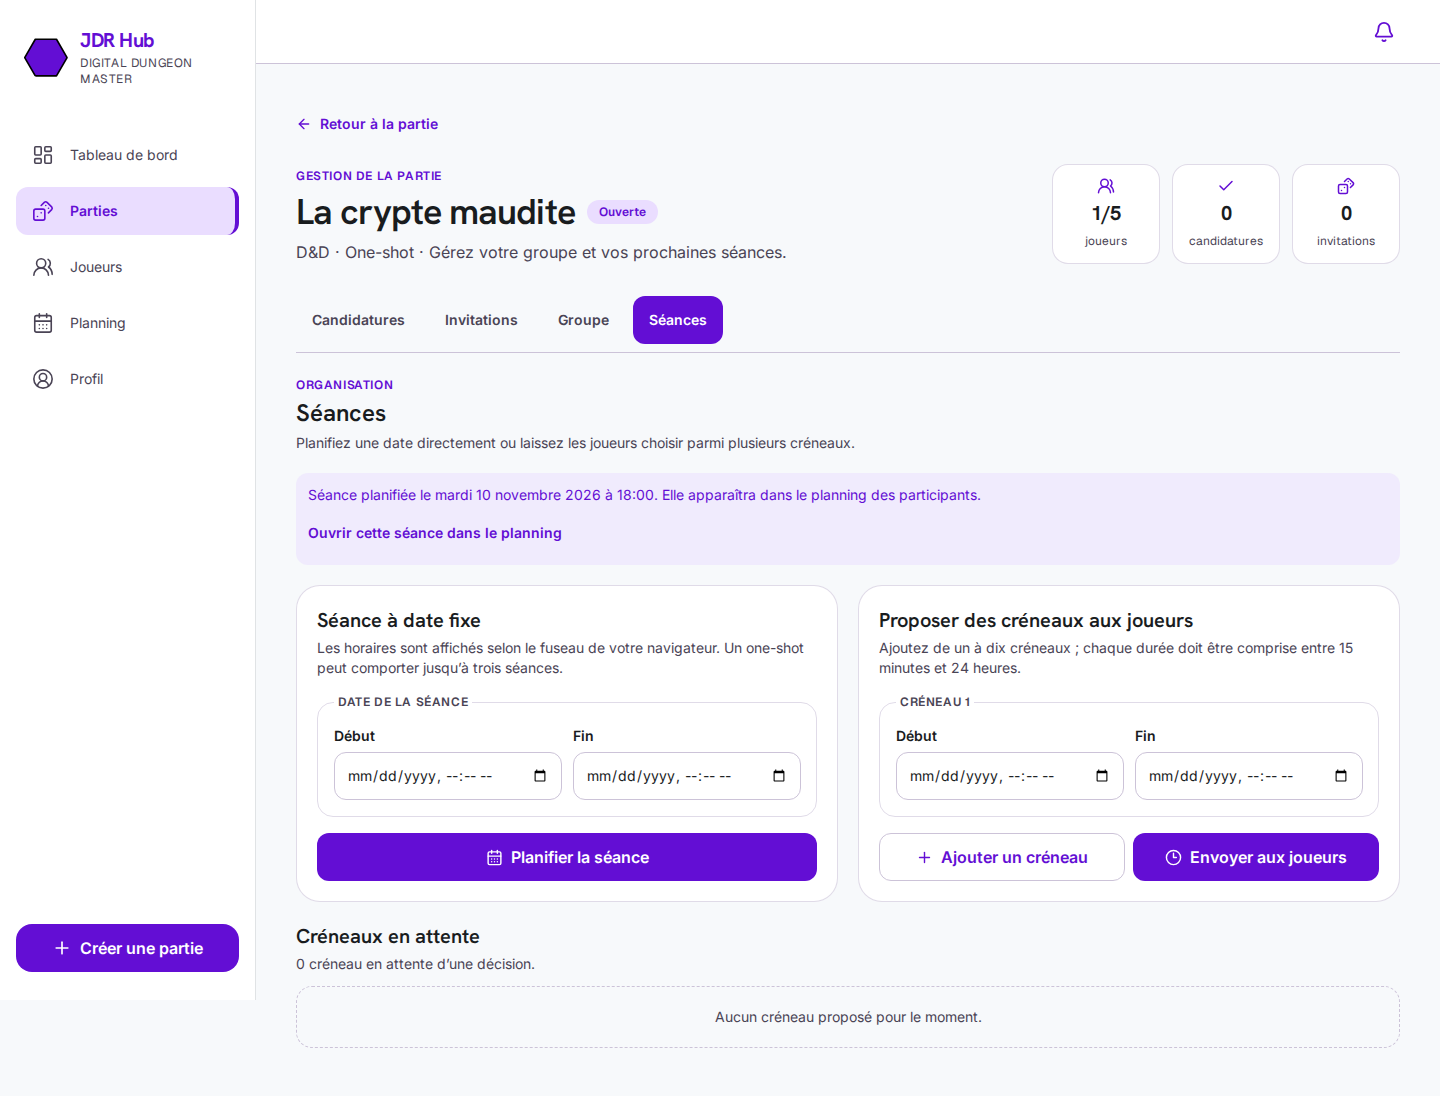
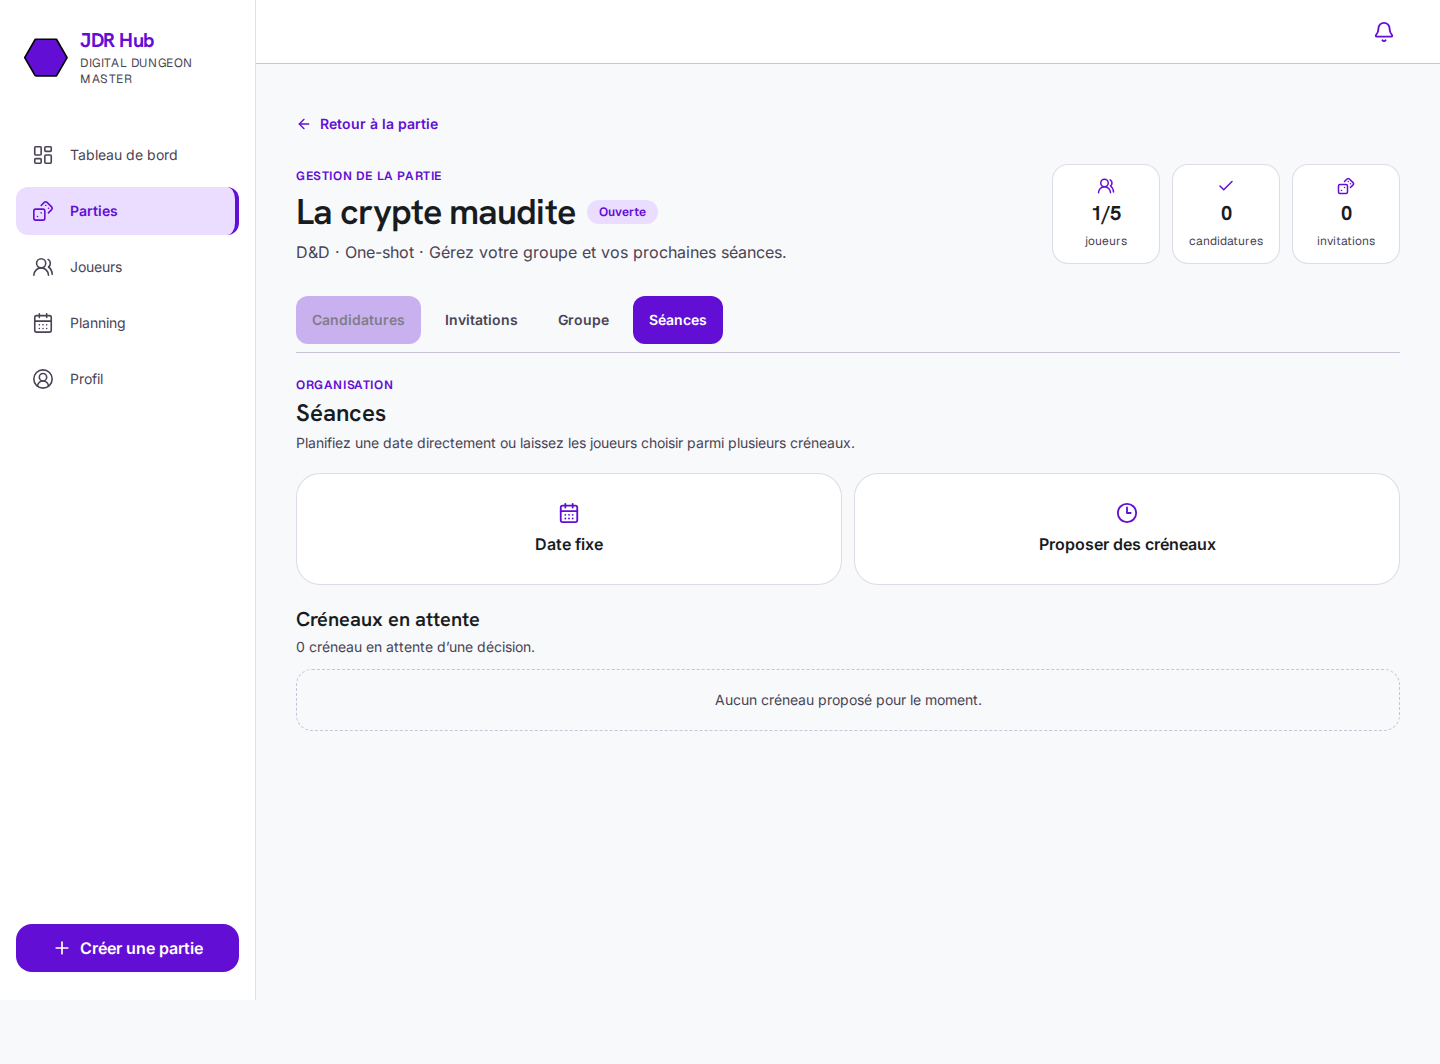
fix: hide unselected session scheduling mode

diff --git a/apps/web/features/gm-management/session-scheduling-panel.tsx b/apps/web/features/gm-management/session-scheduling-panel.tsx
@@ -7,6 +7,7 @@ import type { DashboardSession, GameType, ProposalInput, SchedulingProposal } fr
 import { createSchedulingApi } from '../../lib/scheduling-api'
 
 type SlotDraft = { startsAt: string; endsAt: string }
+type SchedulingMode = 'fixed' | 'proposals'
 
 function formatDate(value: string): string {
   return new Intl.DateTimeFormat('fr-FR', { dateStyle: 'full', timeStyle: 'short' }).format(new Date(value))
@@ -22,6 +23,7 @@ function DateRangeFields({ slot, label, onChange }: { slot: SlotDraft; label: st
 
 export function SessionSchedulingPanel({ gameId, gameType, nextSession, openProposalCount }: { gameId: string; gameType: GameType; nextSession: DashboardSession | null; openProposalCount: number }) {
   const [api] = useState(() => createSchedulingApi())
+  const [schedulingMode, setSchedulingMode] = useState<SchedulingMode | null>(null)
   const [proposals, setProposals] = useState<SchedulingProposal[] | null>(null)
   const [fixedSlot, setFixedSlot] = useState<SlotDraft>({ startsAt: '', endsAt: '' })
   const [proposalSlots, setProposalSlots] = useState<SlotDraft[]>([{ startsAt: '', endsAt: '' }])
@@ -103,10 +105,14 @@ export function SessionSchedulingPanel({ gameId, gameType, nextSession, openProp
     <div><p className="m-0 font-label text-xs font-bold uppercase tracking-wider text-primary">Organisation</p><h2 className="m-0 mt-1 font-display text-2xl font-semibold" id="sessions-title">Séances</h2><p className="m-0 mt-1 text-sm text-on-surface-variant">Planifiez une date directement ou laissez les joueurs choisir parmi plusieurs créneaux.</p></div>
     {message ? <div aria-live="polite" className="grid gap-2 rounded-lg bg-primary-fixed/50 p-3 pr-16 text-sm text-primary max-md:pr-20" role="status"><p className="m-0">{message}</p>{createdSession ? <Link className="inline-flex min-h-10 items-center font-semibold text-primary underline-offset-4 hover:underline focus-visible:outline-2 focus-visible:outline-offset-2 focus-visible:outline-primary" href={`/planning#session-${encodeURIComponent(createdSession.id)}`}>Ouvrir cette séance dans le planning</Link> : null}</div> : null}
     {error ? <p aria-live="polite" className="m-0 rounded-lg border border-error/30 bg-error-container p-3 pr-16 text-sm text-on-error-container max-md:pr-20" role="alert">{error}</p> : null}
-    <div className="grid gap-5 lg:grid-cols-2">
-      <form className="grid content-start gap-4 rounded-2xl border border-outline-variant/60 bg-surface p-5" onSubmit={(event) => { void createFixedSession(event) }}><div><h3 className="m-0 font-display text-xl font-semibold">Séance à date fixe</h3><p className="m-0 mt-1 text-sm text-on-surface-variant">Les horaires sont affichés selon le fuseau de votre navigateur.{gameType === 'ONE_SHOT' ? ' Un one-shot peut comporter jusqu’à trois séances.' : ''}</p></div><DateRangeFields label="Date de la séance" onChange={setFixedSlot} slot={fixedSlot} /><button className="inline-flex min-h-12 items-center justify-center gap-2 rounded-lg bg-primary px-4 font-semibold text-on-primary transition-colors hover:bg-primary-container focus-visible:outline-2 focus-visible:outline-offset-2 focus-visible:outline-primary disabled:opacity-60" disabled={busy} type="submit"><CalendarDays aria-hidden="true" size={17} />Planifier la séance</button></form>
-      <form className="grid content-start gap-4 rounded-2xl border border-outline-variant/60 bg-surface p-5" onSubmit={(event) => { void createProposals(event) }}><div><h3 className="m-0 font-display text-xl font-semibold">Proposer des créneaux aux joueurs</h3><p className="m-0 mt-1 text-sm text-on-surface-variant">Ajoutez de un à dix créneaux ; chaque durée doit être comprise entre 15 minutes et 24 heures.</p></div><div className="grid gap-3">{proposalSlots.map((slot, index) => <div className="relative" key={index}><DateRangeFields label={`Créneau ${index + 1}`} onChange={(value) => setProposalSlots((current) => current.map((item, itemIndex) => itemIndex === index ? value : item))} slot={slot} />{proposalSlots.length > 1 ? <button aria-label={`Supprimer le créneau ${index + 1}`} className="absolute right-2 top-1 min-h-10 rounded-lg px-2 text-error hover:bg-error/10 focus-visible:outline-2 focus-visible:outline-offset-2 focus-visible:outline-primary" disabled={busy} onClick={() => setProposalSlots((current) => current.filter((_, itemIndex) => itemIndex !== index))} type="button"><Trash2 aria-hidden="true" size={17} /></button> : null}</div>)}</div><div className="grid gap-2 sm:grid-cols-2"><button className="inline-flex min-h-12 items-center justify-center gap-2 rounded-lg border border-outline-variant px-3 font-semibold text-primary transition-colors hover:bg-primary-fixed/50 focus-visible:outline-2 focus-visible:outline-offset-2 focus-visible:outline-primary disabled:opacity-60" disabled={busy || proposalSlots.length >= 10} onClick={() => setProposalSlots((current) => [...current, { startsAt: '', endsAt: '' }])} type="button"><Plus aria-hidden="true" size={17} />Ajouter un créneau</button><button className="inline-flex min-h-12 items-center justify-center gap-2 rounded-lg bg-primary px-3 font-semibold text-on-primary transition-colors hover:bg-primary-container focus-visible:outline-2 focus-visible:outline-offset-2 focus-visible:outline-primary disabled:opacity-60" disabled={busy} type="submit"><Clock3 aria-hidden="true" size={17} />Envoyer aux joueurs</button></div></form>
-    </div>
+    {schedulingMode === null ? <div aria-labelledby="scheduling-mode-title" className="grid gap-3 sm:grid-cols-2">
+      <h3 className="sr-only" id="scheduling-mode-title">Choisir le mode de planification</h3>
+      <button className="grid min-h-28 content-center justify-items-center gap-2 rounded-2xl border border-outline-variant/60 bg-surface p-5 text-center font-semibold transition-colors hover:border-primary hover:bg-primary-fixed/30 focus-visible:outline-2 focus-visible:outline-offset-2 focus-visible:outline-primary" onClick={() => setSchedulingMode('fixed')} type="button"><CalendarDays aria-hidden="true" className="text-primary" size={22} />Date fixe</button>
+      <button className="grid min-h-28 content-center justify-items-center gap-2 rounded-2xl border border-outline-variant/60 bg-surface p-5 text-center font-semibold transition-colors hover:border-primary hover:bg-primary-fixed/30 focus-visible:outline-2 focus-visible:outline-offset-2 focus-visible:outline-primary" onClick={() => setSchedulingMode('proposals')} type="button"><Clock3 aria-hidden="true" className="text-primary" size={22} />Proposer des créneaux</button>
+    </div> : <div className="grid justify-items-start gap-3">
+      <button className="min-h-11 rounded-lg px-3 font-semibold text-primary underline-offset-4 hover:underline focus-visible:outline-2 focus-visible:outline-offset-2 focus-visible:outline-primary" onClick={() => setSchedulingMode(null)} type="button">Changer de mode</button>
+      {schedulingMode === 'fixed' ? <form className="grid w-full content-start gap-4 rounded-2xl border border-outline-variant/60 bg-surface p-5" onSubmit={(event) => { void createFixedSession(event) }}><div><h3 className="m-0 font-display text-xl font-semibold">Séance à date fixe</h3><p className="m-0 mt-1 text-sm text-on-surface-variant">Les horaires sont affichés selon le fuseau de votre navigateur.{gameType === 'ONE_SHOT' ? ' Un one-shot peut comporter jusqu’à trois séances.' : ''}</p></div><DateRangeFields label="Date de la séance" onChange={setFixedSlot} slot={fixedSlot} /><button className="inline-flex min-h-12 items-center justify-center gap-2 rounded-lg bg-primary px-4 font-semibold text-on-primary transition-colors hover:bg-primary-container focus-visible:outline-2 focus-visible:outline-offset-2 focus-visible:outline-primary disabled:opacity-60" disabled={busy} type="submit"><CalendarDays aria-hidden="true" size={17} />Planifier la séance</button></form> : <form className="grid w-full content-start gap-4 rounded-2xl border border-outline-variant/60 bg-surface p-5" onSubmit={(event) => { void createProposals(event) }}><div><h3 className="m-0 font-display text-xl font-semibold">Proposer des créneaux aux joueurs</h3><p className="m-0 mt-1 text-sm text-on-surface-variant">Ajoutez de un à dix créneaux ; chaque durée doit être comprise entre 15 minutes et 24 heures.</p></div><div className="grid gap-3">{proposalSlots.map((slot, index) => <div className="relative" key={index}><DateRangeFields label={`Créneau ${index + 1}`} onChange={(value) => setProposalSlots((current) => current.map((item, itemIndex) => itemIndex === index ? value : item))} slot={slot} />{proposalSlots.length > 1 ? <button aria-label={`Supprimer le créneau ${index + 1}`} className="absolute right-2 top-1 min-h-10 rounded-lg px-2 text-error hover:bg-error/10 focus-visible:outline-2 focus-visible:outline-offset-2 focus-visible:outline-primary" disabled={busy} onClick={() => setProposalSlots((current) => current.filter((_, itemIndex) => itemIndex !== index))} type="button"><Trash2 aria-hidden="true" size={17} /></button> : null}</div>)}</div><div className="grid gap-2 sm:grid-cols-2"><button className="inline-flex min-h-12 items-center justify-center gap-2 rounded-lg border border-outline-variant px-3 font-semibold text-primary transition-colors hover:bg-primary-fixed/50 focus-visible:outline-2 focus-visible:outline-offset-2 focus-visible:outline-primary disabled:opacity-60" disabled={busy || proposalSlots.length >= 10} onClick={() => setProposalSlots((current) => [...current, { startsAt: '', endsAt: '' }])} type="button"><Plus aria-hidden="true" size={17} />Ajouter un créneau</button><button className="inline-flex min-h-12 items-center justify-center gap-2 rounded-lg bg-primary px-3 font-semibold text-on-primary transition-colors hover:bg-primary-container focus-visible:outline-2 focus-visible:outline-offset-2 focus-visible:outline-primary disabled:opacity-60" disabled={busy} type="submit"><Clock3 aria-hidden="true" size={17} />Envoyer aux joueurs</button></div></form>}
+    </div>}
     <section aria-labelledby="proposals-title" className="grid gap-3"><div className="flex flex-wrap items-end justify-between gap-3"><div><h3 className="m-0 font-display text-xl font-semibold" id="proposals-title">Créneaux en attente</h3><p className="m-0 mt-1 text-sm text-on-surface-variant">{proposalCount} créneau{proposalCount > 1 ? 'x' : ''} en attente d’une décision.</p></div>{proposals === null ? <p className="m-0 text-sm text-on-surface-variant" role="status">Chargement des propositions…</p> : null}</div>{openProposals.length > 0 ? <ul className="m-0 grid gap-3 p-0 sm:grid-cols-2">{openProposals.map((proposal) => <li className="list-none rounded-xl border border-outline-variant/60 bg-surface p-4" key={proposal.id}><p className="m-0 font-semibold">Début : {formatDate(proposal.startsAt)}</p><p className="m-0 mt-1 text-sm text-on-surface-variant">Fin : {formatDate(proposal.endsAt)}</p><p className="m-0 mt-2 text-sm text-on-surface-variant">Oui : {proposal.votes.yes} · Peut-être : {proposal.votes.maybe} · Non : {proposal.votes.no}</p><button className="mt-3 inline-flex min-h-11 items-center justify-center rounded-lg bg-primary px-4 font-semibold text-on-primary hover:bg-primary-container focus-visible:outline-2 focus-visible:outline-offset-2 focus-visible:outline-primary disabled:opacity-60" disabled={busy} onClick={() => { void selectProposal(proposal.id) }} type="button">Retenir ce créneau</button></li>)}</ul> : proposals?.length === 0 ? <p className="rounded-xl border border-dashed border-outline-variant p-5 text-center text-sm text-on-surface-variant">Aucun créneau proposé pour le moment.</p> : null}</section>
     {nextSession ? <article className="rounded-xl border border-outline-variant/60 bg-surface p-5"><div className="flex items-start gap-3"><CalendarDays aria-hidden="true" className="mt-0.5 text-primary" size={22} /><div><h3 className="m-0 font-display text-xl font-semibold">Prochaine séance</h3><p className="m-0 mt-1 inline-flex items-center gap-2 text-sm text-on-surface-variant"><Clock3 aria-hidden="true" size={16} />{formatDate(nextSession.startsAt)}</p></div></div><Link className="mt-4 inline-flex min-h-12 items-center rounded-lg bg-primary px-4 font-semibold text-on-primary no-underline focus-visible:outline-2 focus-visible:outline-offset-2 focus-visible:outline-primary" href={`/planning#session-${encodeURIComponent(nextSession.id)}`}>Ouvrir le planning</Link></article> : null}
   </section>

diff --git a/apps/web/tests/session-scheduling-panel.test.tsx b/apps/web/tests/session-scheduling-panel.test.tsx
@@ -4,7 +4,7 @@ import { describe, expect, it } from 'vitest'
 import { SessionSchedulingPanel } from '../features/gm-management/session-scheduling-panel.js'
 
 describe('SessionSchedulingPanel', () => {
-  it('offers fixed-date and player-vote scheduling controls', () => {
+  it('starts by asking the GM to choose one scheduling mode', () => {
     const html = renderToStaticMarkup(createElement(SessionSchedulingPanel, {
       gameId: 'game-1',
       gameType: 'ONE_SHOT',
@@ -12,9 +12,12 @@ describe('SessionSchedulingPanel', () => {
       openProposalCount: 0,
     }))
 
-    expect(html).toContain('Séance à date fixe')
-    expect(html).toContain('Proposer des créneaux aux joueurs')
-    expect(html.match(/type="datetime-local"/g)?.length).toBeGreaterThanOrEqual(4)
+    expect(html).toContain('Choisir le mode de planification')
+    expect(html).toContain('Date fixe')
+    expect(html).toContain('Proposer des créneaux')
+    expect(html).not.toContain('Séance à date fixe')
+    expect(html).not.toContain('Créneau 1')
+    expect(html).not.toContain('type="datetime-local"')
     expect(html).toContain('role="status"')
   })
 })

diff --git a/docs/project-status.md b/docs/project-status.md
@@ -41,7 +41,7 @@ Seuls les statuts suivants sont autorisés :
 | DEV-003 | Drizzle Studio local | `MERGED` | `chore/drizzle-studio` | [PR #13](https://github.com/thomasO82/jdr_hub/pull/13), fusionnée dans `develop` | 61 fichiers, 146 tests verts ; lint, typecheck, build et image Studio vérifiés | Port local uniquement, réseau PostgreSQL privé, conteneur non-root | [Fiche DEV-003](features/010-drizzle-studio.md) |
 | F05 | Disponibilités et recherche de joueurs | `MERGED` | `feat/availability-and-player-search` | Fusion confirmée par le propriétaire dans `develop` | 72 fichiers, 173 tests monorepo verts ; lint, typecheck et builds verts | Session obligatoire, origine stricte, rate limit d’écriture, horaires privés, projection agrégée et validation bornée | [Fiche F05](features/011-availability-and-player-search.md) |
 | F06 | Séances, créneaux, votes et planning | `MERGED` | `feat/sessions-scheduling` | [PR #15](https://github.com/thomasO82/jdr_hub/pull/15), fusionnée dans `develop` | 84 fichiers, 203 tests monorepo verts ; lint, typecheck et build web verts | Appartenance/MJ, origine stricte, votes uniques, transaction de sélection, dates bornées | [Fiche F06](features/012-sessions-scheduling.md) |
-| FIX-UX-002 | Gestion des dates de séance et accès aux votes | `IN_REVIEW` | `feat/session-scheduling-controls` | [PR #34](https://github.com/thomasO82/jdr_hub/pull/34) vers `develop` | 143 fichiers/422 tests verts hors deux tests temporaires `.superpowers` ; lint, typecheck, build et Playwright desktop/mobile verts | Endpoints F06 inchangés ; contrôles de session, propriétaire, membre actif, dates et limites conservés | [Fiche FIX-UX-002](features/024-session-scheduling-controls.md) |
+| FIX-UX-002 | Gestion des dates de séance et accès aux votes | `IN_REVIEW` | `feat/session-scheduling-controls` | [PR #34](https://github.com/thomasO82/jdr_hub/pull/34) vers `develop` | 143 fichiers/422 tests verts hors deux tests temporaires `.superpowers` ; lint, typecheck, build et Playwright desktop/mobile verts ; le sélecteur masque le mode non choisi | Endpoints F06 inchangés ; contrôles de session, propriétaire, membre actif, dates et limites conservés | [Fiche FIX-UX-002](features/024-session-scheduling-controls.md) |
 | F07 | Présences, absences et notifications Discord optionnelles | `MERGED` | `feat/attendance-notifications` | [PR #17](https://github.com/thomasO82/jdr_hub/pull/17), fusionnée dans `develop` | 108 fichiers, 306 tests verts ; lint, typecheck, builds et intégrations PostgreSQL/Redis (8 fichiers, 17 tests) verts | Notifications JDR Hub maintenues ; DM après adhésion consentie ; OAuth `guilds.join` distinct ; aucun contenu de chat transmis | [Fiche F07](features/013-attendance-notifications.md) |
 | F07B | Messagerie textuelle par partie | `MERGED` | `feat/game-messaging` | [PR #28](https://github.com/thomasO82/jdr_hub/pull/28), fusionnée dans `develop` | 108 fichiers, 306 tests verts ; build Docker Compose, intégrations PostgreSQL/Redis et conteneurs sains ; vérification navigateur restant à confirmer | Autorisation propriétaire/membre actif, lecture seule après fermeture, texte borné/échappé, SSE revalidé, Redis interne | [Fiche F07B](features/015-game-messaging.md) |
 | F08 | Dashboard et gestion MJ | `MERGED` | `feat/dashboard-and-gm-management` | [PR #21](https://github.com/thomasO82/jdr_hub/pull/21), fusionnée dans `develop` | 115 fichiers, 308 tests monorepo verts + 8 tests d’intégration PostgreSQL ; lint, typecheck et build verts | Session/origine/rate limit, autorisation par ressource, projection minimale, notifications destinataire-scopées, validation stricte, contrainte d’invitation et transactions | [Fiche F08](features/014-dashboard-and-gm-management.md) |

diff --git a/docs/features/024-session-scheduling-controls.md b/docs/features/024-session-scheduling-controls.md
@@ -15,6 +15,9 @@ n’étaient pas cliquables.
 
 - Dans **Gestion de la partie → Séances**, le MJ peut planifier une séance avec
   une date et une plage horaire saisies dans son fuseau de navigateur.
+- Le panneau demande d’abord le mode de planification. Après le choix d’une
+  date fixe ou de créneaux à proposer, seul le formulaire correspondant reste
+  visible ; « Changer de mode » permet de revenir au choix.
 - Le MJ peut proposer de un à dix créneaux. Il peut en ajouter ou en retirer,
   consulter les votes reçus et retenir explicitement un créneau.
 - La séance créée ou retenue affiche un lien direct vers sa position dans le
@@ -68,3 +71,20 @@ n’étaient pas cliquables.
 - L’API reste l’autorité finale pour les dates invalides, la limite de trois
   séances d’un one-shot et les autorisations ; le frontend présente un message
   générique en cas de refus.
+
+## Suivi UX — 2026-10-14
+
+- **Red :** le test SSR vérifiait le sélecteur de mode et l’absence des deux
+  formulaires au premier affichage ; il échouait car les deux formulaires
+  étaient rendus simultanément.
+- **Green :** un état local mémorise le mode choisi, masque le sélecteur pendant
+  l’édition et rend uniquement le formulaire correspondant.
+- **Refactor :** le retour au sélecteur est explicite et conserve les brouillons
+  saisis dans chaque formulaire.
+- **Vérification interactive :** Playwright sur le build de production a choisi
+  chaque mode, confirmé que l’autre choix disparaissait, créé une séance fixe,
+  proposé puis retenu un créneau. Viewports 1440×1000 et 390×844 ; aucune erreur
+  console. Captures mises à jour ci-dessus.
+- **Résultats après suivi :** 143 fichiers et 422 tests passent hors deux tests
+  temporaires `.superpowers` qui ciblent un répertoire absent ; `pnpm lint` et
+  `pnpm build` passent.
